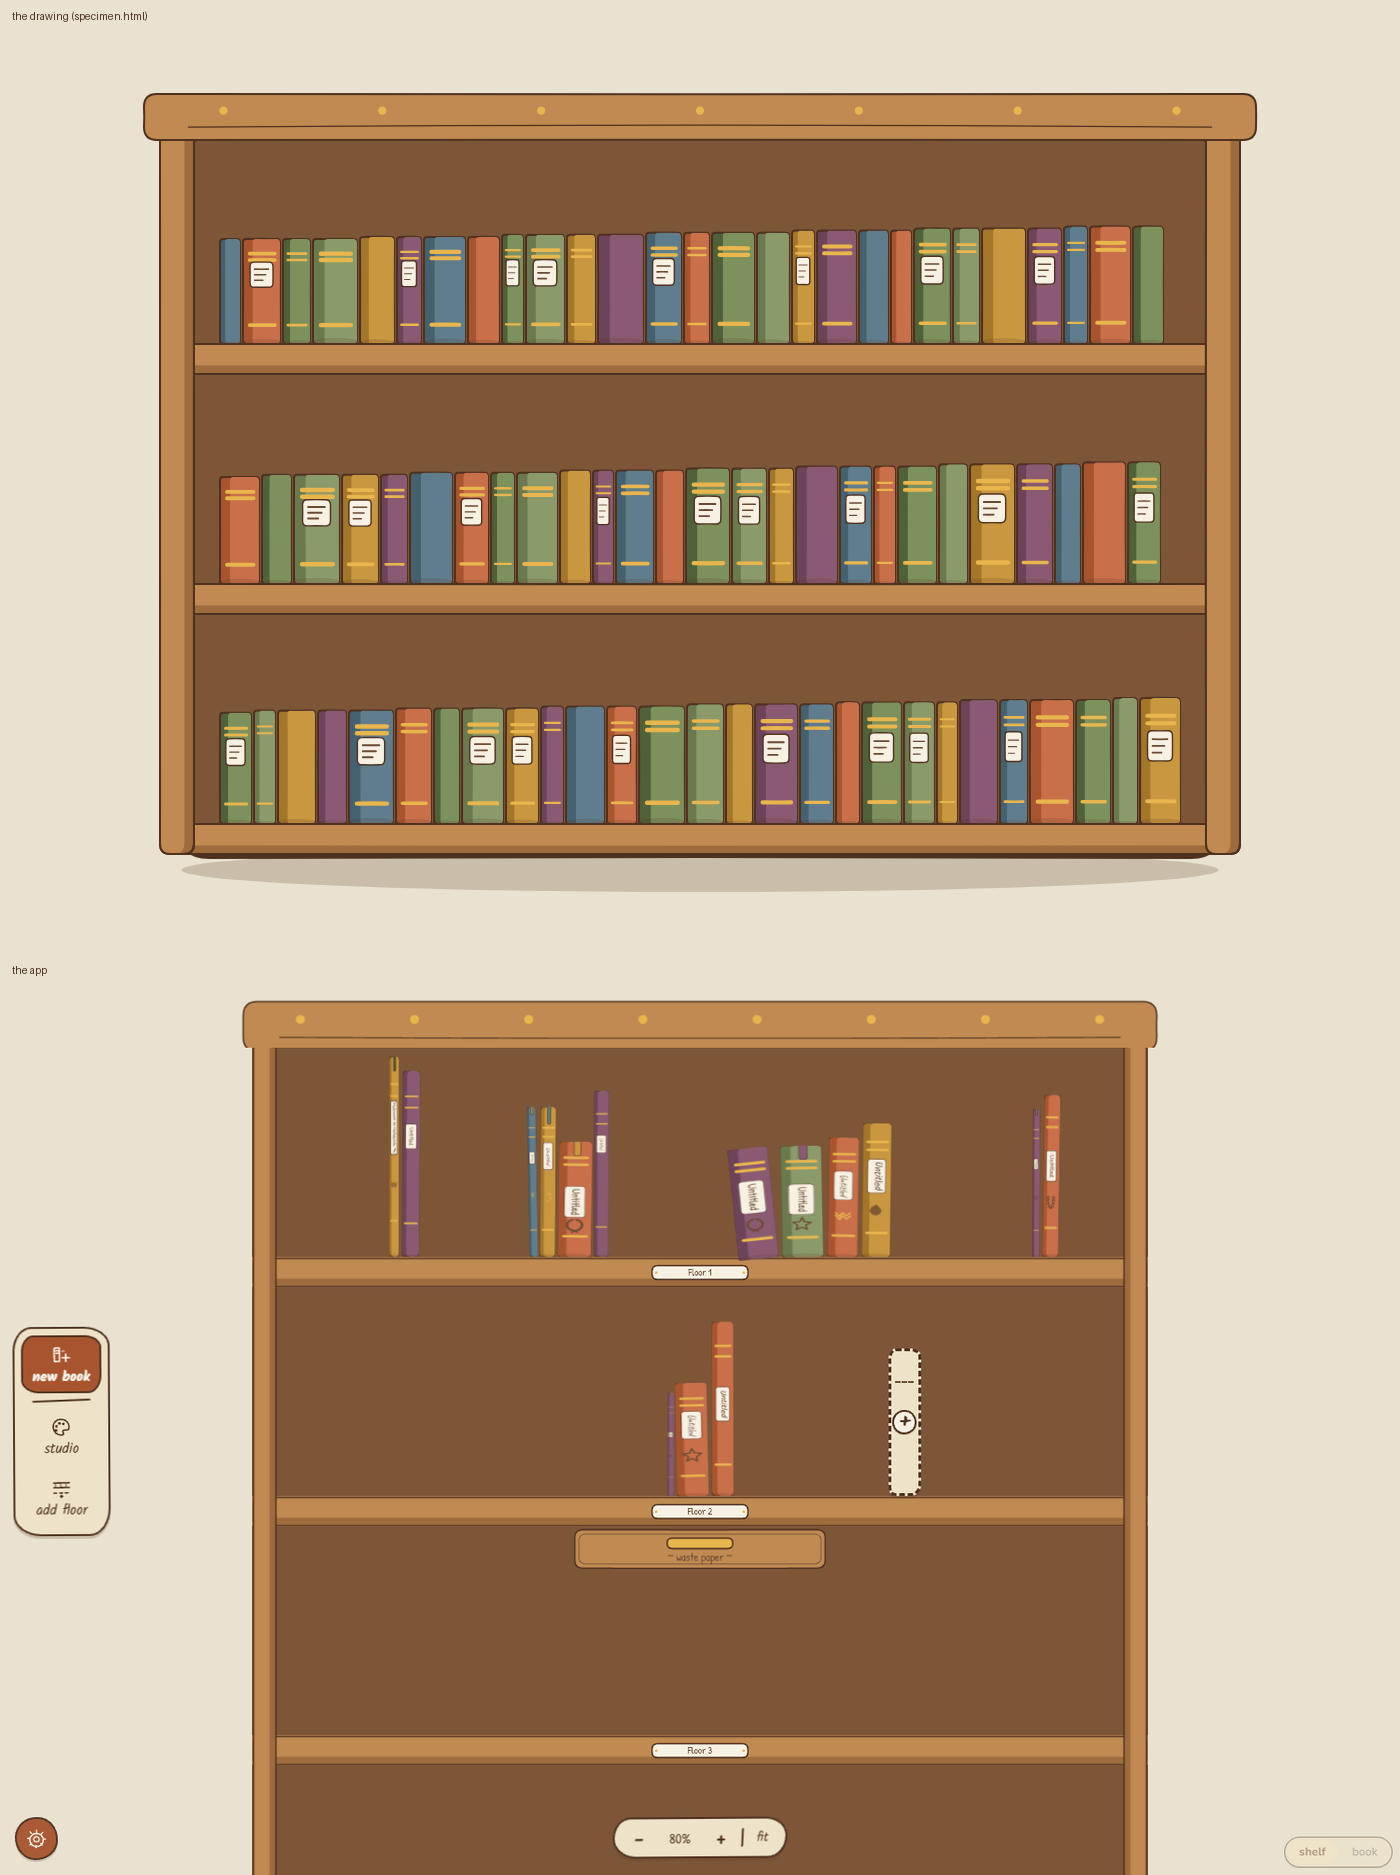
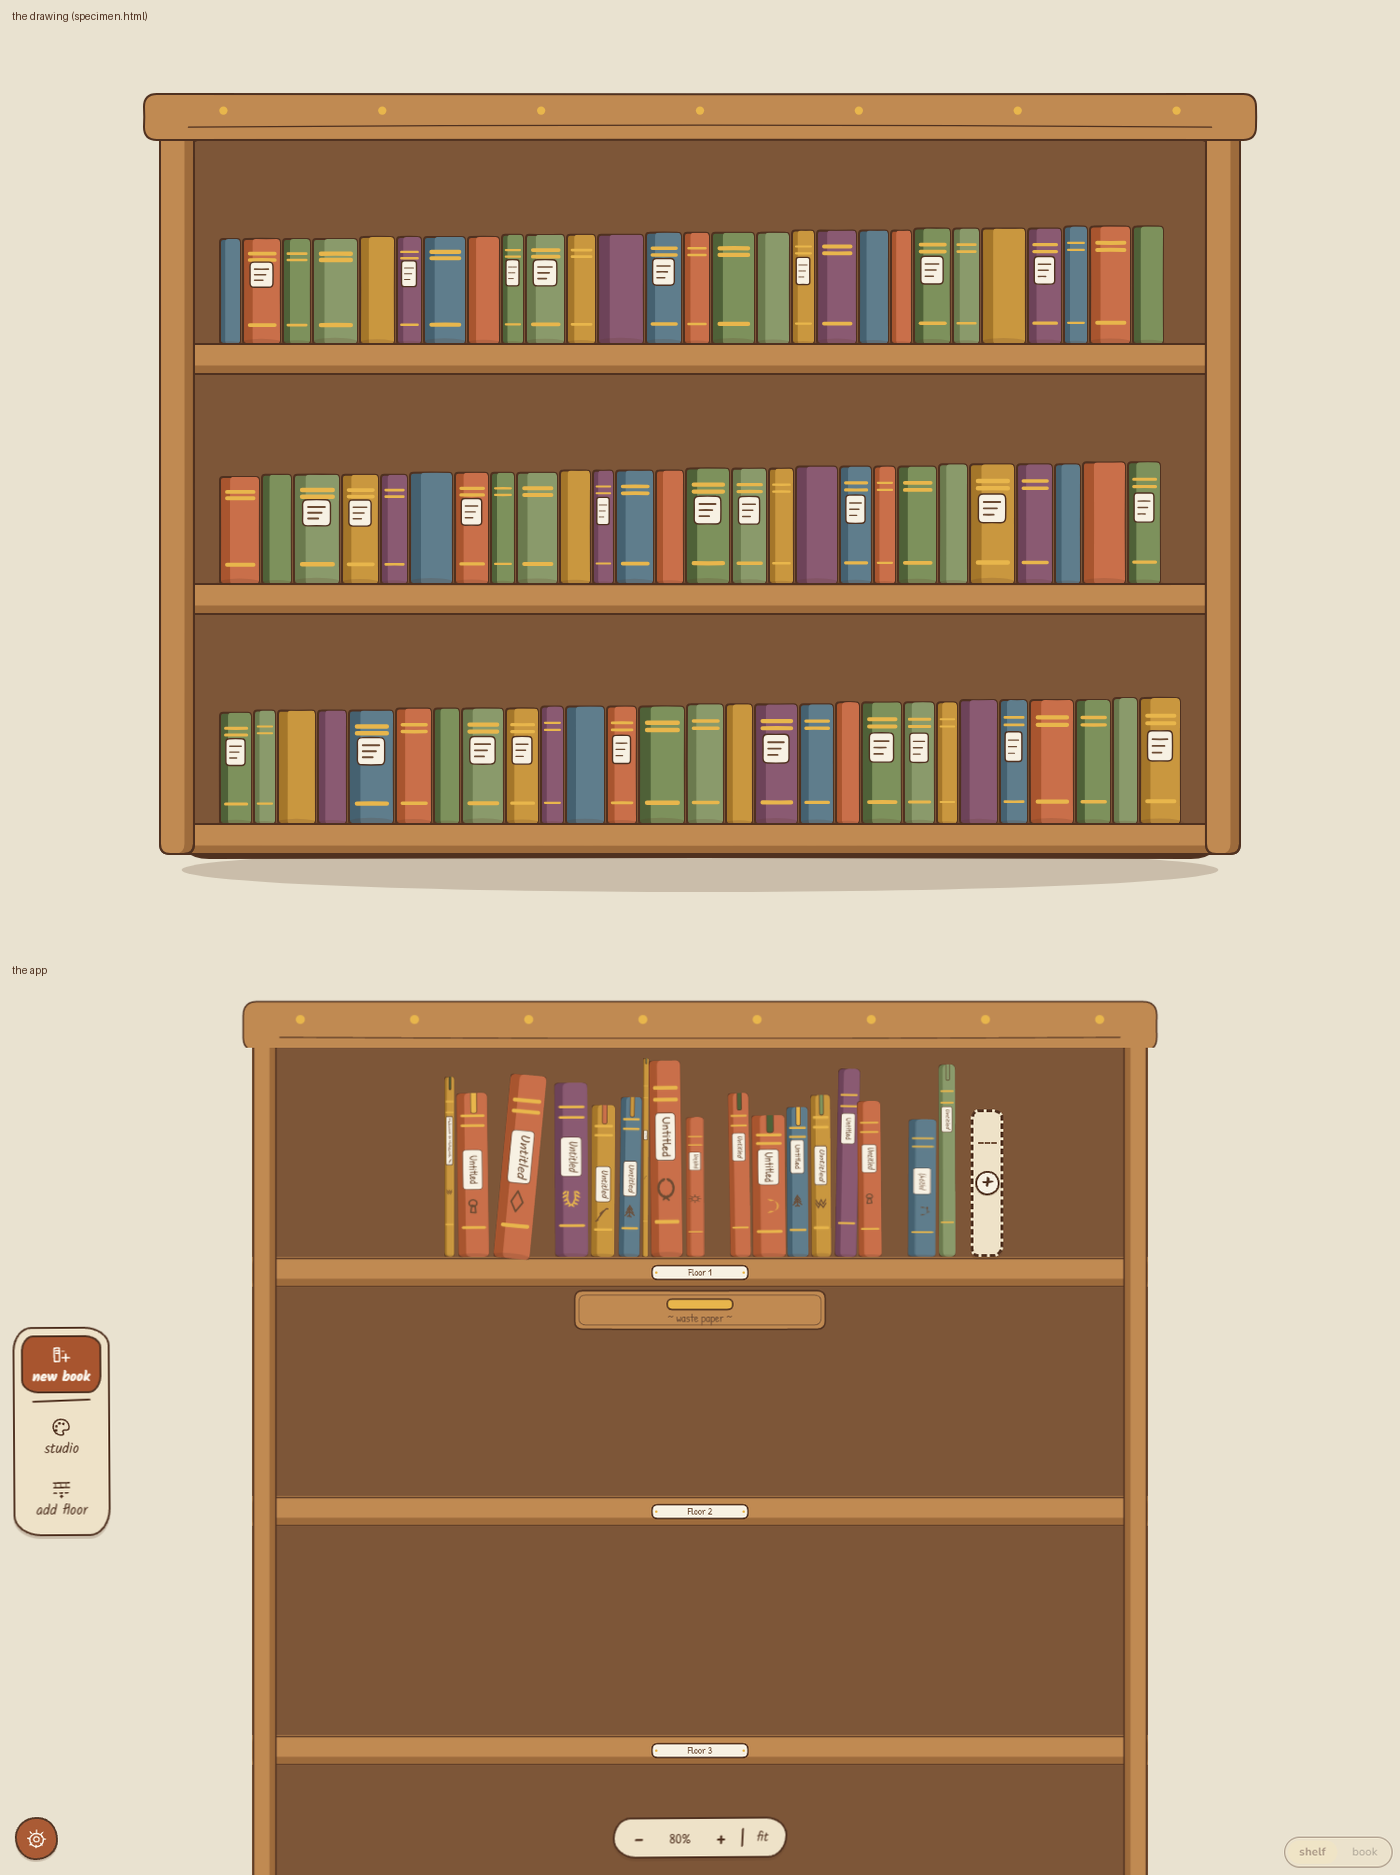
fix(shelf): pack the books instead of scattering them
Two gaps against the specimen, both measured by looking.

Layout poured ALL of a floor's spare width into its gaps, so fourteen books
in a 1200px case came out as four islands with a hand's width of empty plank
between them. Inter-cluster gaps are now capped and the surplus goes to the
two ends, which centres the packed row. Real books lean on each other and the
empty part of a shelf stays in one piece.

Book heights started at half the opening, which read as paperbacks lost in a
cabinet. The range now runs 0.62 to 1.0, so the skyline is still uneven but
the volumes nearly fill their opening the way the reference does.

The test that asserted the row SPANS 45% of the case encoded the old
scattered aesthetic; it now asserts what was actually being protected — the
row stays centred — plus the new invariant that no two neighbours sit further
apart than one capped gap.

Changed region(s): [[0.2764, 0.5568, 0.7679, 0.8352], [0.6143, 0.7115, 0.6757, 0.8043]]

diff --git a/src/features/bookshelf/layout.ts b/src/features/bookshelf/layout.ts
@@ -33,6 +33,17 @@ export const LEAN_MAX_DEG = 7;
 /** A cluster gap must be at least this wide for a neighbor to lean into it. */
 const LEAN_GAP_MIN = 26;
 
+/**
+ * How wide a gap between two clusters may grow.
+ *
+ * It exists because the row used to absorb ALL of a floor's spare width into
+ * its gaps: fourteen books in a 1200px case came out as four little islands
+ * with a hand's width of empty plank between them. Capping the gap packs the
+ * books into something that reads as a shelf, and the surplus goes to the two
+ * ends instead, centring the row.
+ */
+const INTER_CLUSTER_GAP_MAX = 34;
+
 export interface LayoutBookIn {
   /** Persisted slot index — only the ORDER matters to the layout. */
   slot: number;
@@ -108,6 +119,15 @@ export function layoutFloor(
   }
 
   // --- distribute leftover width into the k+1 outer gaps ---
+  //
+  // Only SOME of it. Spreading every spare pixel across the row is what made
+  // a lightly-filled floor read as islands of books floating in a wide case,
+  // which is nothing like a shelf and nothing like the reference: real books
+  // lean on each other and the empty part of the shelf stays in one piece.
+  //
+  // So each gap is capped, and whatever will not fit is left over at the
+  // right-hand end, where it reads as room for more books rather than as
+  // deliberate spacing.
   let free = avail - totalW;
   const outer = new Array<number>(k + 1).fill(0);
   if (free < 0) {
@@ -124,7 +144,20 @@ export function layoutFloor(
       weights.push(wt);
       wSum += wt;
     }
-    for (let g = 0; g <= k; g++) outer[g] = (free * (weights[g] as number)) / wSum;
+    for (let g = 1; g < k; g++) {
+      const share = (free * (weights[g] as number)) / wSum;
+      outer[g] = Math.min(share, INTER_CLUSTER_GAP_MAX);
+    }
+    // Whatever the capped inner gaps did not take is split evenly between the
+    // two ends, which centres the packed row in the case. Left-packing would
+    // be just as truthful about a part-filled shelf, but it makes the case
+    // look lopsided, and centring keeps the composition the old spread-out
+    // layout was reaching for without scattering the books to get it.
+    let used = 0;
+    for (let g = 1; g < k; g++) used += outer[g] as number;
+    const ends = Math.max(0, (free - used) / 2);
+    outer[0] = ends;
+    outer[k] = ends;
   }
 
   // --- emit centers ---

diff --git a/tests/bookshelf.test.ts b/tests/bookshelf.test.ts
@@ -429,17 +429,33 @@ describe('layout: seeded cluster layout', () => {
     }
   });
 
-  it('spreads a populated floor across the shelf (no left-cluster dead space)', () => {
+  it('packs a populated floor and centres it (no islands, no dead side)', () => {
+    // This used to assert the row SPANS at least 45% of the case. That was the
+    // old aesthetic — spare width was poured into the gaps — and it is exactly
+    // what made a lightly-filled floor read as islands of books floating apart.
+    // Books now pack together and the surplus goes to the two ends.
     for (let floor = 0; floor < 12; floor++) {
       const items = mkItems([34, 40, 28, 46, 30, 38, 36, 33]);
       const placed = layoutFloor(items, floor);
       const first = placed[0];
       const last = placed[placed.length - 1];
-      const span = last!.centerX - first!.centerX;
-      expect(span).toBeGreaterThanOrEqual(SHELF_WIDTH * 0.45);
-      // The row's midpoint sits reasonably near the case center.
+
+      // Still centred: the concern the old assertion was really protecting.
       const mid = (first!.centerX + last!.centerX) / 2;
       expect(Math.abs(mid - SHELF_WIDTH / 2)).toBeLessThanOrEqual(SHELF_WIDTH * 0.2);
+
+      // And packed: no two neighbours sit further apart than one capped gap.
+      // Widths come from the INPUT items — LayoutBookOut carries only the
+      // placement, not the geometry.
+      for (let i = 1; i < placed.length; i++) {
+        const a = placed[i - 1]!;
+        const b = placed[i]!;
+        const aw = items[i - 1]!.w;
+        const bw = items[i]!.w;
+        const edgeGap = b.centerX - bw / 2 - (a.centerX + aw / 2);
+        expect(edgeGap).toBeLessThanOrEqual(40);
+        expect(edgeGap).toBeGreaterThanOrEqual(0);
+      }
     }
   });
 

diff --git a/src/features/bookshelf/spineFactory.ts b/src/features/bookshelf/spineFactory.ts
@@ -329,7 +329,11 @@ export class SpineFactory {
    */
   heightFraction(book: Book): number {
     const h = fnv1a(`${book.id}|${book.spineSeed}|h`) >>> 0;
-    return 0.5 + ((h % 50) / 100);
+    // Bottom of the range is 0.62, not 0.5. A shelf wants an uneven skyline,
+    // but half-height books read as paperbacks lost in a cabinet, and with the
+    // range starting at 0.5 too many rows came out looking stubby against a
+    // tall opening — the reference's volumes very nearly fill theirs.
+    return 0.62 + ((h % 38) / 100);
   }
 
   /**
